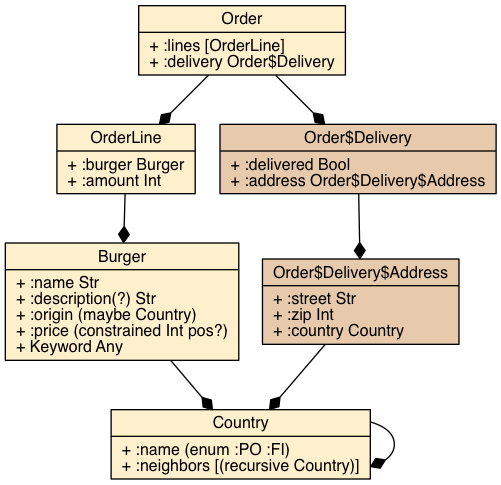
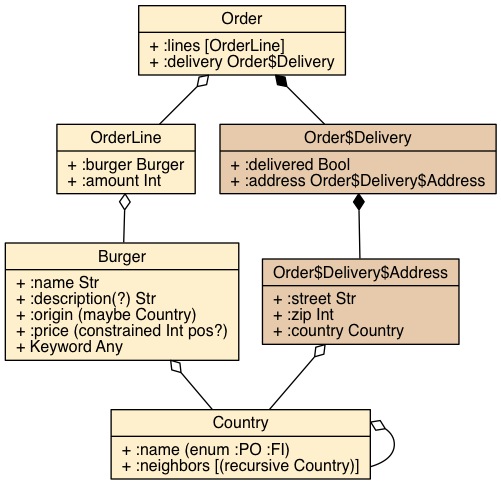
Release 0.1.1

diff --git a/CHANGES.md b/CHANGES.md
@@ -1,4 +1,7 @@
-## Unreleased
+## 0.1.1 (30.3.2016)
+
+- Arrowhead on correct side of the relation, fixes [#7](https://github.com/metosin/schema-viz/issues/7) by [Christoph Frick](https://github.com/christoph-frick).
+- Sub-schemas are composed, while referenced schemas are aggregated, related to [#7](https://github.com/metosin/schema-viz/issues/7) by [Christoph Frick](https://github.com/christoph-frick).
 
 - update dependencies:
 
